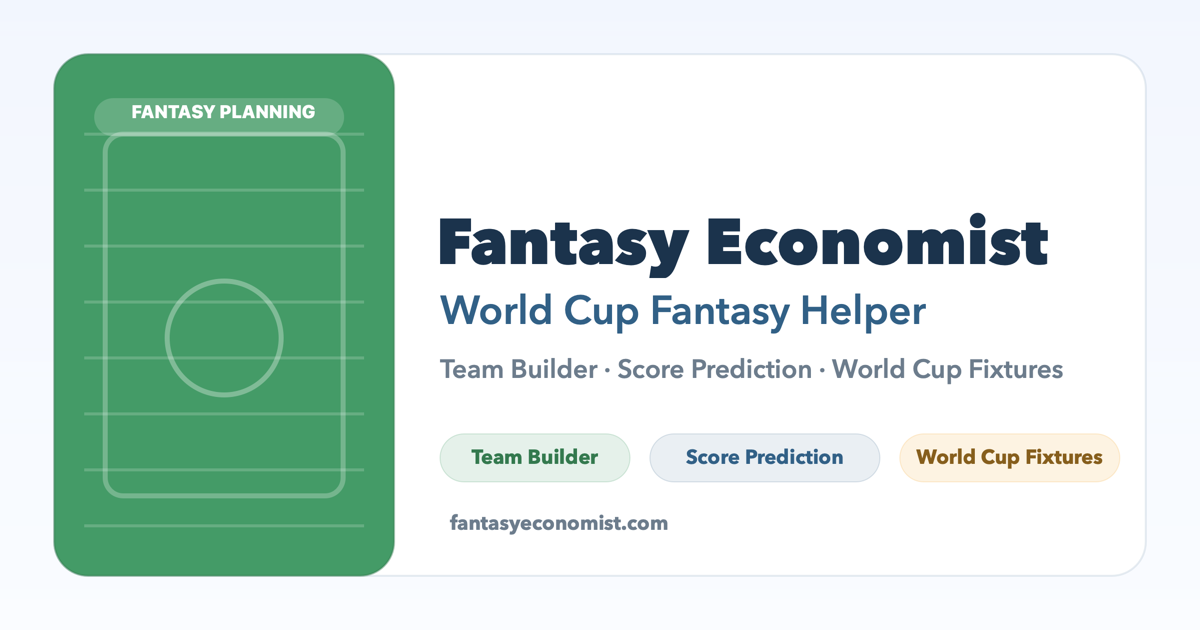
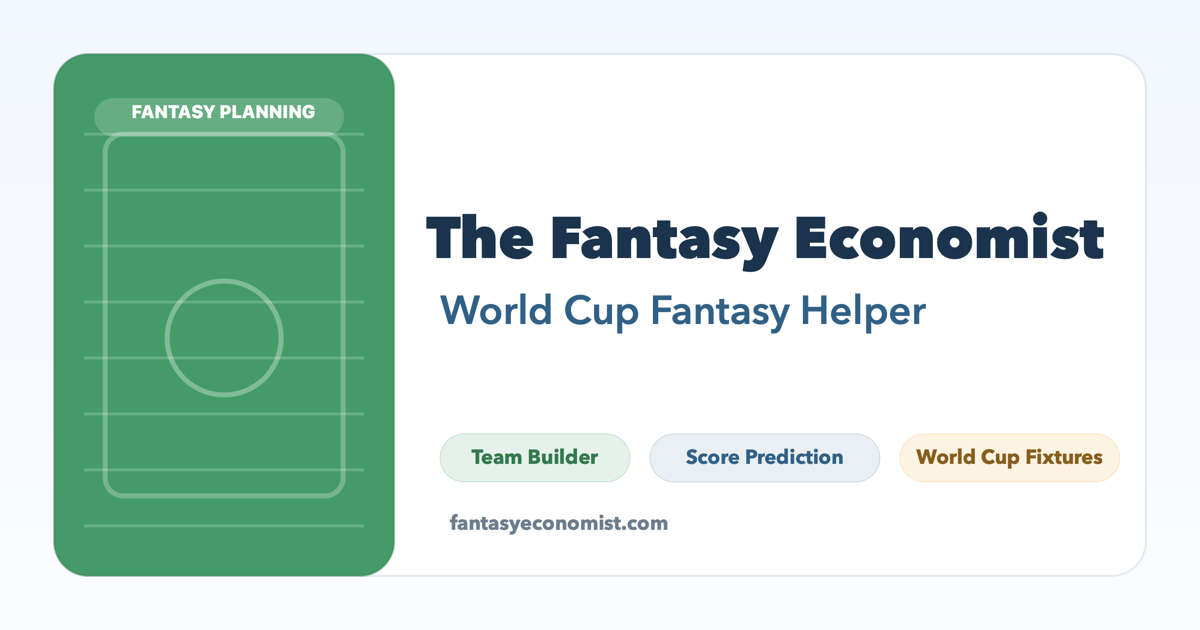
Update social preview image

Changed region(s): [[0.3392, 0.3317, 0.925, 0.4524], [0.37, 0.573, 0.8942, 0.6032]]

diff --git a/index.html b/index.html
@@ -3,29 +3,29 @@
   <head>
     <meta charset="UTF-8" />
     <meta name="viewport" content="width=device-width, initial-scale=1.0" />
-    <title>Fantasy Economist | World Cup Fantasy Helper</title>
+    <title>The Fantasy Economist | World Cup Fantasy Helper</title>
     <meta name="description" content="Fantasy World Cup planning with player picks, score predictions, and portfolio-style squad tools." />
-    <meta property="og:site_name" content="Fantasy Economist" />
-    <meta property="og:title" content="Fantasy Economist" />
+    <meta property="og:site_name" content="The Fantasy Economist" />
+    <meta property="og:title" content="The Fantasy Economist" />
     <meta property="og:description" content="Fantasy World Cup planning with player picks, score predictions, and portfolio-style squad tools." />
     <meta property="og:type" content="website" />
     <meta property="og:url" content="https://fantasyeconomist.com/" />
     <meta property="og:image" content="https://fantasyeconomist.com/social-preview.png" />
     <meta property="og:image:width" content="1200" />
     <meta property="og:image:height" content="630" />
-    <meta property="og:image:alt" content="Fantasy Economist social preview for Team Builder, Score Prediction, and World Cup Fixtures." />
+    <meta property="og:image:alt" content="The Fantasy Economist social preview for World Cup fantasy planning." />
     <meta name="twitter:card" content="summary_large_image" />
-    <meta name="twitter:title" content="Fantasy Economist" />
+    <meta name="twitter:title" content="The Fantasy Economist" />
     <meta name="twitter:description" content="Fantasy World Cup planning with player picks, score predictions, and portfolio-style squad tools." />
     <meta name="twitter:image" content="https://fantasyeconomist.com/social-preview.png" />
-    <meta name="twitter:image:alt" content="Fantasy Economist social preview for Team Builder, Score Prediction, and World Cup Fixtures." />
+    <meta name="twitter:image:alt" content="The Fantasy Economist social preview for World Cup fantasy planning." />
     <link rel="canonical" href="https://fantasyeconomist.com/" />
     <script type="application/ld+json">
       {
         "@context": "https://schema.org",
         "@type": "WebSite",
-        "name": "Fantasy Economist",
-        "alternateName": "The Fantasy Economist",
+        "name": "The Fantasy Economist",
+        "alternateName": "Fantasy Economist",
         "url": "https://fantasyeconomist.com/",
         "description": "Independent fantasy football planning tool for the World Cup."
       }

diff --git a/world-cup.html b/world-cup.html
@@ -3,22 +3,22 @@
   <head>
     <meta charset="UTF-8" />
     <meta name="viewport" content="width=device-width, initial-scale=1.0" />
-    <title>World Cup Fixtures | Fantasy Economist</title>
+    <title>World Cup Fixtures | The Fantasy Economist</title>
     <meta name="description" content="Group-stage fixtures and World Cup context for fantasy planning." />
-    <meta property="og:site_name" content="Fantasy Economist" />
-    <meta property="og:title" content="World Cup Fixtures | Fantasy Economist" />
+    <meta property="og:site_name" content="The Fantasy Economist" />
+    <meta property="og:title" content="World Cup Fixtures | The Fantasy Economist" />
     <meta property="og:description" content="Group-stage fixtures and World Cup context for fantasy planning." />
     <meta property="og:type" content="website" />
     <meta property="og:url" content="https://fantasyeconomist.com/world-cup.html" />
     <meta property="og:image" content="https://fantasyeconomist.com/social-preview.png" />
     <meta property="og:image:width" content="1200" />
     <meta property="og:image:height" content="630" />
-    <meta property="og:image:alt" content="Fantasy Economist social preview for Team Builder, Score Prediction, and World Cup Fixtures." />
+    <meta property="og:image:alt" content="The Fantasy Economist social preview for World Cup fantasy planning." />
     <meta name="twitter:card" content="summary_large_image" />
-    <meta name="twitter:title" content="World Cup Fixtures | Fantasy Economist" />
+    <meta name="twitter:title" content="World Cup Fixtures | The Fantasy Economist" />
     <meta name="twitter:description" content="Group-stage fixtures and World Cup context for fantasy planning." />
     <meta name="twitter:image" content="https://fantasyeconomist.com/social-preview.png" />
-    <meta name="twitter:image:alt" content="Fantasy Economist social preview for Team Builder, Score Prediction, and World Cup Fixtures." />
+    <meta name="twitter:image:alt" content="The Fantasy Economist social preview for World Cup fantasy planning." />
     <link rel="canonical" href="https://fantasyeconomist.com/world-cup.html" />
     <!-- Google tag (gtag.js) -->
     <script async src="https://www.googletagmanager.com/gtag/js?id=G-MSZET05H11"></script>

diff --git a/data/launchBasics_v1.md b/data/launchBasics_v1.md
@@ -20,7 +20,7 @@ Status: ready.
 
 - The pages use Twitter/X `summary_large_image` cards and Open Graph image fields.
 - `social-preview.png` is a safe original 1200 x 630 image in the repo.
-- The preview image uses site colors and the public action labels: Team Builder, Score Prediction, and World Cup Fixtures.
+- The preview image uses site colors, the preferred site title, and simple action chips.
 - `index.html` and `world-cup.html` reference `https://fantasyeconomist.com/social-preview.png`.
 - No official logos, trophy marks, flag-branding artwork, or copyrighted imagery were added.
 